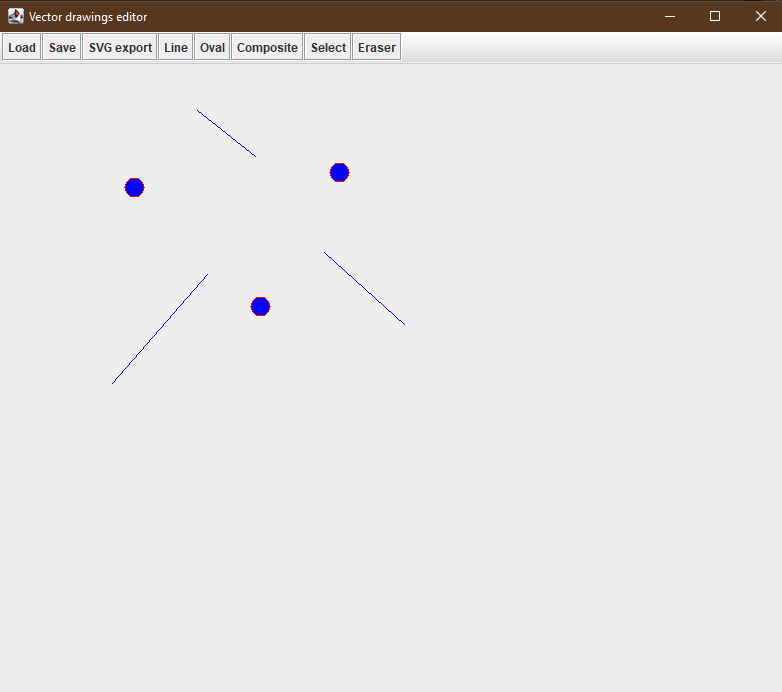
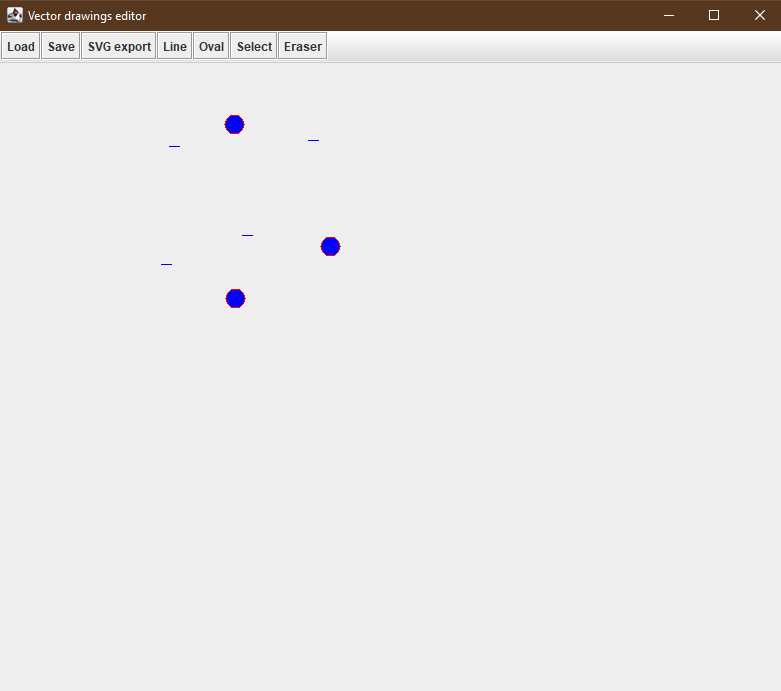
Bug fix where there was Composite button in toolbar

diff --git a/src/main/java/gui/GUI.java b/src/main/java/gui/GUI.java
@@ -98,9 +98,11 @@ public class GUI extends JFrame {
 		toolbar.add(svgExportAction);
 
 		for (GraphicalObject go : objects) {
-			AbstractAction action = new CanvasAction(go);
-			action.putValue(Action.NAME, go.getShapeName());
-			toolbar.add(action);
+			if (!(go instanceof CompositeShape)) {
+				AbstractAction action = new CanvasAction(go);
+				action.putValue(Action.NAME, go.getShapeName());
+				toolbar.add(action);
+			}
 		}
 
 		selectAction.putValue(Action.NAME, "Select");
@@ -294,7 +296,7 @@ public class GUI extends JFrame {
 									for (int i = 0; i < numOfObjects; i++) {
 										gObjects[i] = objects.pop();
 									}
-									
+
 									((CompositeShape) go).setObjects(gObjects);
 									go.duplicate().load(objects, line.substring(index + 1));
 								} else {
